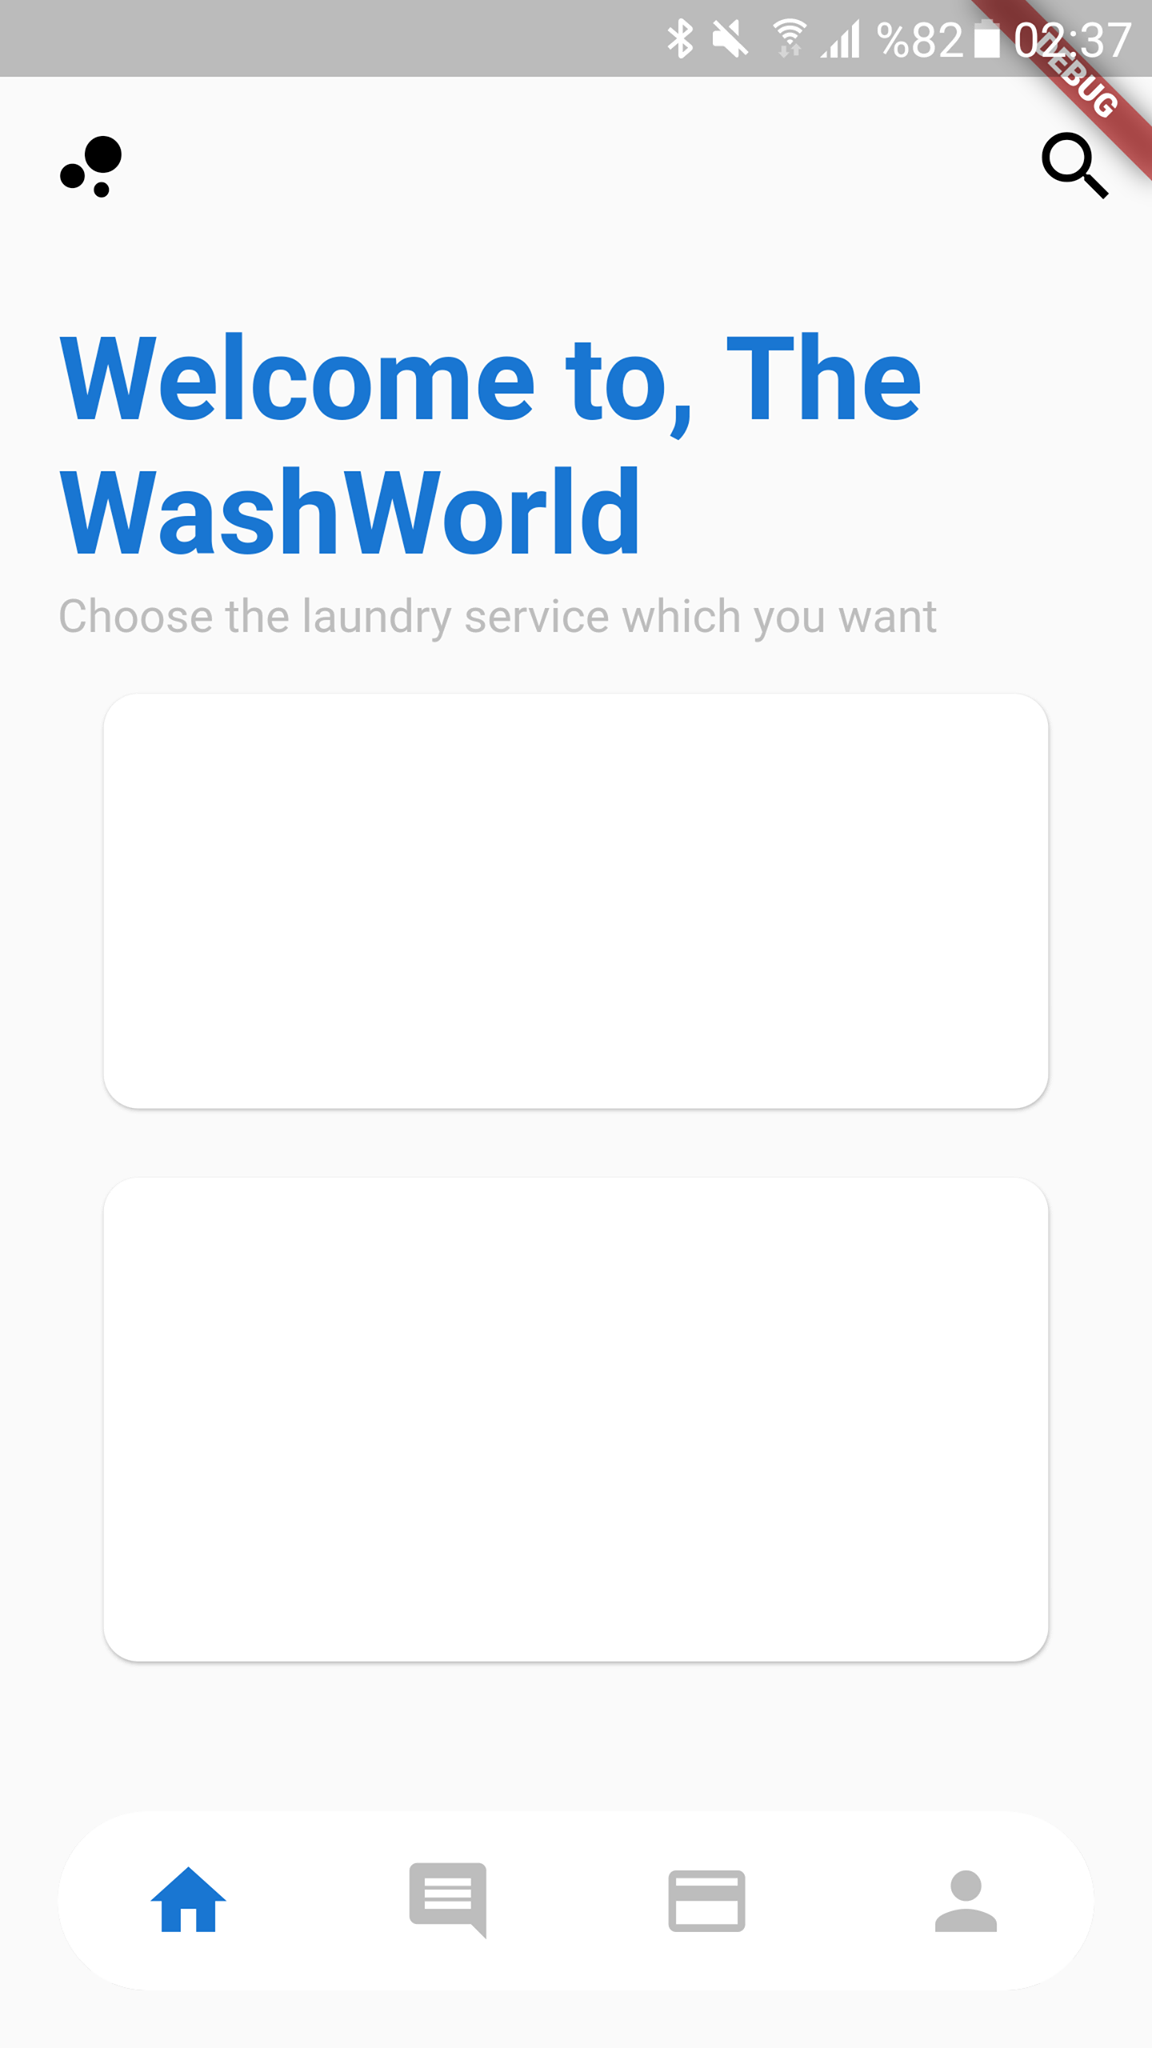
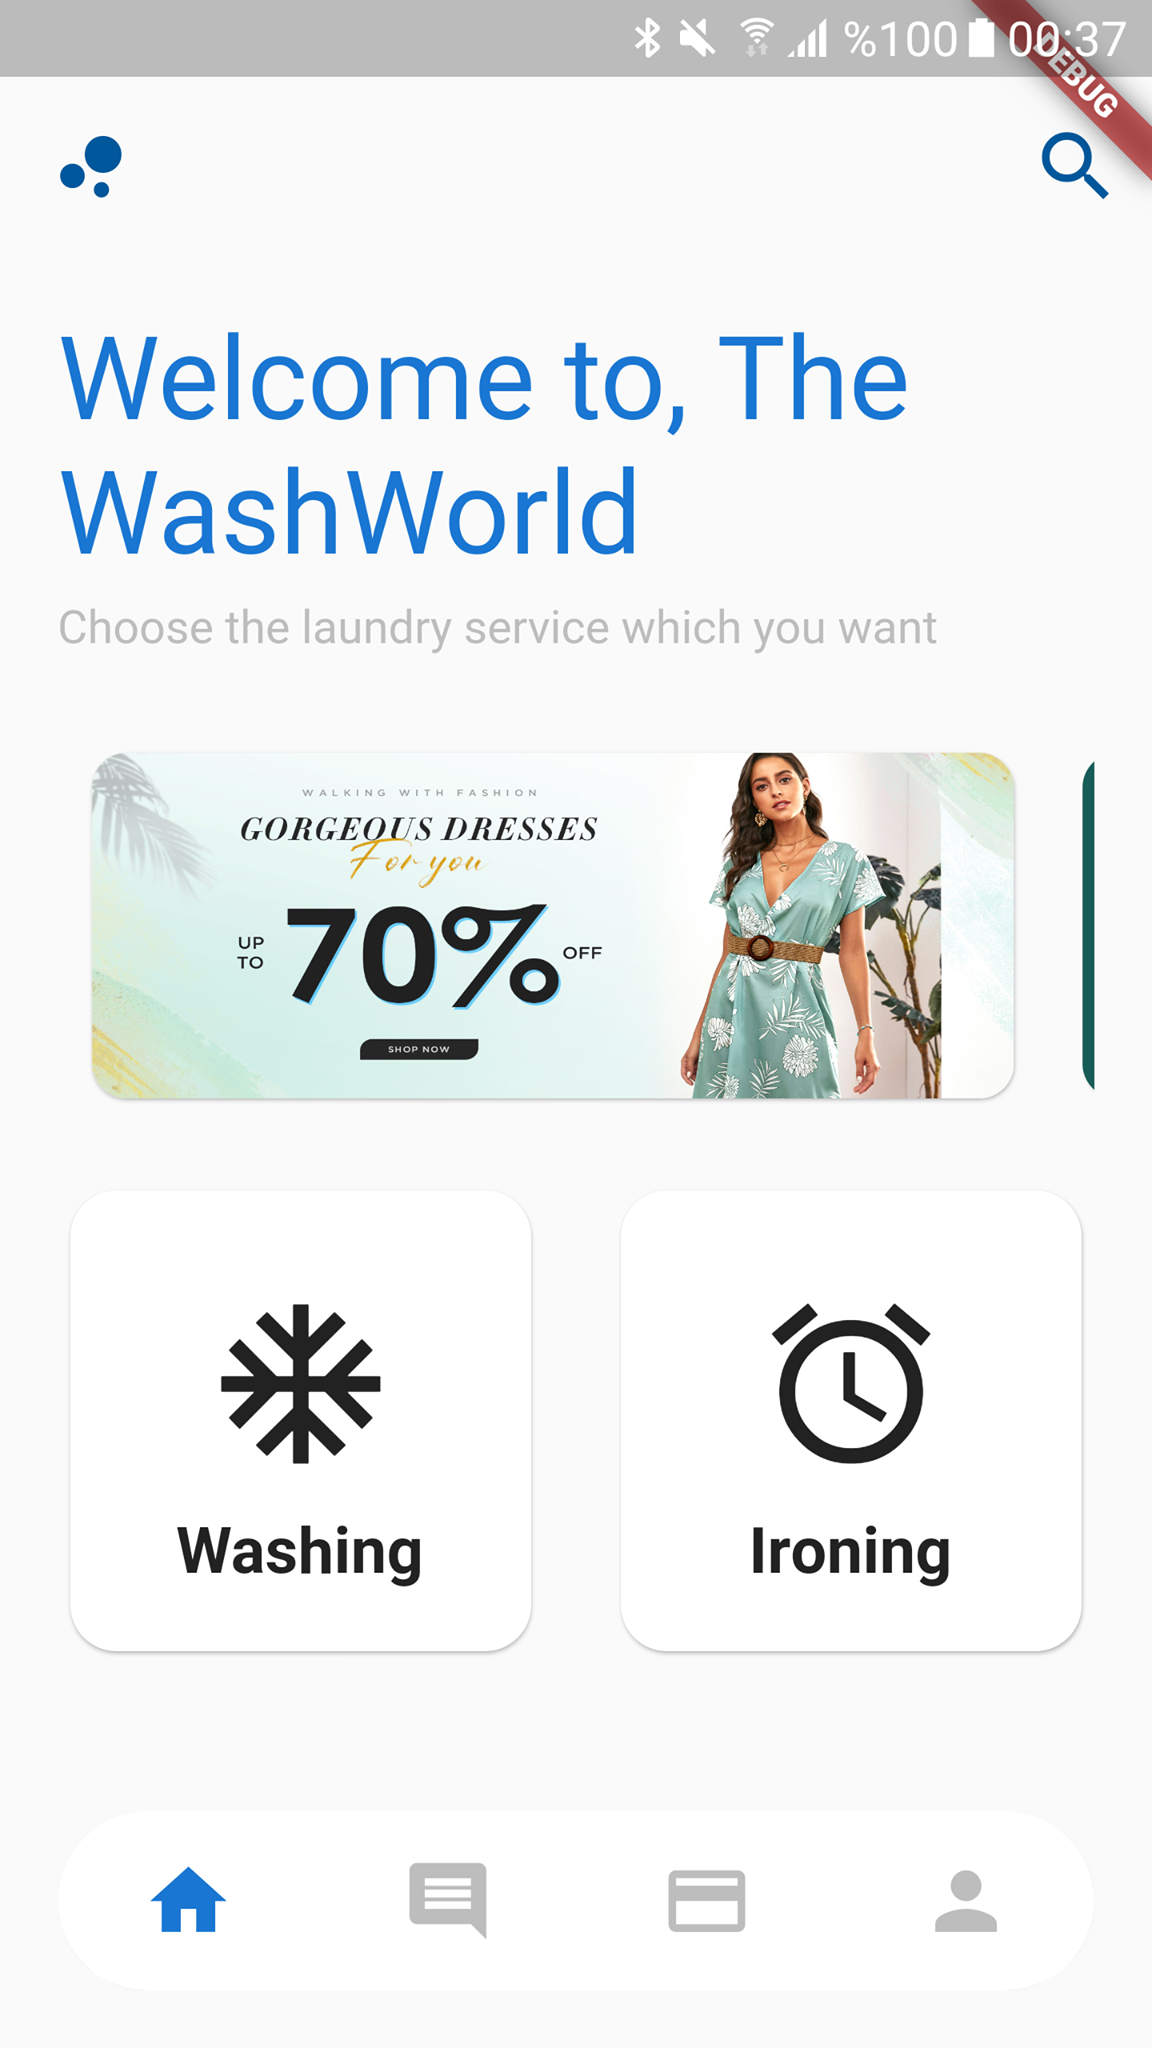
home discount list and homecard design completed

diff --git a/lib/ui/home/view/home_view.dart b/lib/ui/home/view/home_view.dart
@@ -1,23 +1,36 @@
 import 'package:flutter/material.dart';
-import 'package:flutter_wash_app/core/base/state/base_state.dart';
+import 'package:flutter_wash_app/core/base/model/error_model.dart';
+import 'package:flutter_wash_app/ui/home/model/discountlist_model.dart';
 import 'package:flutter_wash_app/ui/home/viewmodel/home_viewmodel.dart';
 
-class HomeView extends BaseState {
-  HomeViewModel homeViewModel;
+class HomeView extends HomeViewModel {
+  //------Sizes-----//
 
-  //Sizes
   double get homePadding => MediaQuery.of(context).size.width * 0.05;
   double get homeButtonSize => MediaQuery.of(context).size.width * 0.08;
+
+  //NavBar
   double get navBarRadius => MediaQuery.of(context).size.width * 0.1;
   double get navBarPadding => MediaQuery.of(context).size.width * 0.05;
+
+  //Title
   double get titleSize => MediaQuery.of(context).size.width * 0.1;
   double get subTitleSize => MediaQuery.of(context).size.width * 0.04;
+
+  //DiscountCard
   double get discountCardWidth => MediaQuery.of(context).size.width * 0.8;
+  double get discountCardHeight => MediaQuery.of(context).size.width * 0.3;
   double get discountCardPadding => MediaQuery.of(context).size.width * 0.01;
   double get discountCardMargin => MediaQuery.of(context).size.width * 0.03;
   double get discountCardRadius => MediaQuery.of(context).size.width * 0.03;
 
-  //Colors
+  //HomeCard
+  double get homeCardWidth => MediaQuery.of(context).size.width * 0.4;
+  double get homeCardHeight => MediaQuery.of(context).size.width * 0.4;
+  double get homeCardRadius => MediaQuery.of(context).size.width * 0.04;
+  double get homeCardiconSize => 60;
+
+  //------Colors-----//
   Color get appBarIconColor => Colors.lightBlue[900];
   Color get navBarColor => Colors.white;
   Color get navUnSelectedColor => Colors.grey[400];
@@ -31,7 +44,6 @@ class HomeView extends BaseState {
 
   //SizedBoxes
   get zeroHeightSizedBox => SizedBox(height: 0);
-
   @override
   Widget build(BuildContext context) {
     return Scaffold(
@@ -70,8 +82,8 @@ class HomeView extends BaseState {
         child: Column(crossAxisAlignment: CrossAxisAlignment.start, children: [
           Expanded(flex: 20, child: homeTitle()),
           Expanded(flex: 5, child: homeSubTitle()),
-          Expanded(flex: 35, child: discountCard()),
-          Expanded(flex: 40, child: discountCard())
+          Expanded(flex: 35, child: disCountFutureBuilder()),
+          Expanded(flex: 40, child: homeCardList())
         ]));
   }
 
@@ -85,16 +97,105 @@ class HomeView extends BaseState {
         style: TextStyle(color: subTitleColor, fontSize: subTitleSize));
   }
 
-  Center discountCard() {
+  FutureBuilder<List<DiscountListModel>> disCountFutureBuilder() {
+    return FutureBuilder<List<DiscountListModel>>(
+      future: homeService.getDiscountList(),
+      builder: (BuildContext context,
+          AsyncSnapshot<List<DiscountListModel>> snapshot) {
+        switch (snapshot.connectionState) {
+          case ConnectionState.active:
+          case ConnectionState.waiting:
+            return Center(child: CircularProgressIndicator());
+          case ConnectionState.done:
+            if (snapshot.hasData) {
+              return disCountListView(snapshot.data);
+            } else {
+              final error = snapshot.error as ErrorModel;
+              return Center(
+                child: Text(error.text),
+              );
+            }
+            break;
+          default:
+            return Text("Something went wrong");
+        }
+      },
+    );
+  }
+
+  ListView disCountListView(List<DiscountListModel> discounts) {
+    return ListView.builder(
+      itemCount: discounts.length,
+      scrollDirection: Axis.horizontal,
+      itemBuilder: (context, index) => discountCard(discounts[index]),
+    );
+  }
+
+  Center discountCard(DiscountListModel discount) {
     return Center(
-        child: Card(
-            shape: RoundedRectangleBorder(
-                borderRadius: BorderRadius.circular(discountCardRadius)),
-            margin: EdgeInsets.symmetric(
-                vertical: discountCardMargin, horizontal: discountCardMargin),
-            child: Padding(
-                padding: EdgeInsets.all(discountCardPadding),
-                child: Container(width: discountCardWidth))));
+      child: Card(
+        shape: RoundedRectangleBorder(
+            borderRadius: BorderRadius.circular(discountCardRadius)),
+        margin: EdgeInsets.symmetric(
+            vertical: discountCardMargin, horizontal: discountCardMargin),
+        child: Container(
+          width: discountCardWidth,
+          height: discountCardHeight,
+          child: ClipRRect(
+            borderRadius: BorderRadius.circular(discountCardRadius),
+            child: Image.network(
+              discount.imgurl,
+              fit: BoxFit.fill,
+            ),
+          ),
+        ),
+      ),
+    );
+  }
+
+  Column homeCardList() {
+    return Column(
+      children: [
+        Row(
+          mainAxisAlignment: MainAxisAlignment.spaceBetween,
+          children: [
+            homeCard(homeCardIcon(Icons.ac_unit), "Washing"),
+            homeCard(homeCardIcon(Icons.access_alarm), "Ironing")
+          ],
+        ),
+        Row(
+          children: [],
+        )
+      ],
+    );
+  }
+
+  Center homeCard(Icon icon, String title) {
+    return Center(
+      child: Card(
+        shape: RoundedRectangleBorder(
+            borderRadius: BorderRadius.circular(homeCardRadius)),
+        child: Container(
+          width: homeCardWidth,
+          height: homeCardHeight,
+          child: Column(
+            mainAxisAlignment: MainAxisAlignment.center,
+            children: [
+              Padding(padding: EdgeInsets.all(10), child: icon),
+              Text(title,
+                  style: TextStyle(fontSize: 20, fontWeight: FontWeight.bold))
+            ],
+          ),
+        ),
+      ),
+    );
+  }
+
+  Icon homeCardIcon(IconData icon) {
+    return Icon(
+      icon,
+      size: homeCardiconSize,
+    );
   }
 
   //Global widget olarak düzenlenicek

diff --git a/lib/ui/home/viewmodel/home_viewmodel.dart b/lib/ui/home/viewmodel/home_viewmodel.dart
@@ -1,4 +1,44 @@
 import 'package:flutter/material.dart';
+import 'package:flutter_wash_app/ui/home/model/discountlist_model.dart';
+import 'package:flutter_wash_app/ui/home/service/IHome_service.dart';
+import 'package:flutter_wash_app/ui/home/service/home_service.dart';
 import 'package:flutter_wash_app/ui/home/view/home.dart';
 
-abstract class HomeViewModel extends State<Home> {}
+abstract class HomeViewModel extends State<Home> {
+  bool isLoading = false;
+  List<DiscountListModel> disCountList = [];
+  IHomeService homeService;
+
+  @override
+  void initState() {
+    super.initState();
+    homeService = HomeService();
+    callItems();
+  }
+
+  @override
+  void didChangeDependencies() {
+    super.didChangeDependencies();
+  }
+
+  @override
+  void dispose() {
+    super.dispose();
+  }
+
+  Future<void> callItems() async {
+    changeLoading();
+    await getDiscountList();
+    changeLoading();
+  }
+
+  void changeLoading() {
+    setState(() {
+      isLoading = !isLoading;
+    });
+  }
+
+  Future<void> getDiscountList() async {
+    disCountList = await homeService.getDiscountList();
+  }
+}

diff --git a/lib/ui/home/model/discountlist_model.dart b/lib/ui/home/model/discountlist_model.dart
@@ -3,18 +3,21 @@ import 'package:flutter_wash_app/core/base/model/base_model.dart';
 class DiscountListModel extends BaseModel<DiscountListModel> {
   String category;
   String count;
+  String imgurl;
 
-  DiscountListModel({this.category, this.count});
+  DiscountListModel({this.category, this.count, this.imgurl});
 
   DiscountListModel.fromJson(Map<String, dynamic> json) {
     category = json['category'];
     count = json['count'];
+    imgurl = json['imgurl'];
   }
 
   Map<String, dynamic> toJson() {
     final Map<String, dynamic> data = new Map<String, dynamic>();
     data['category'] = this.category;
     data['count'] = this.count;
+    data['imgurl'] = this.imgurl;
     return data;
   }
 

diff --git a/lib/core/constants/constants.dart b/lib/core/constants/constants.dart
@@ -4,5 +4,5 @@ class AppConstants {
   AppConstants._init();
 
   static const String BASE_URL = "https://fb-wash-app.firebaseio.com";
-  static const String DISCOUNTLIST_URL = BASE_URL + "/home/discountlist.json";
+  static const String DISCOUNTLIST_URL = "$BASE_URL/home/discountlist.json";
 }
